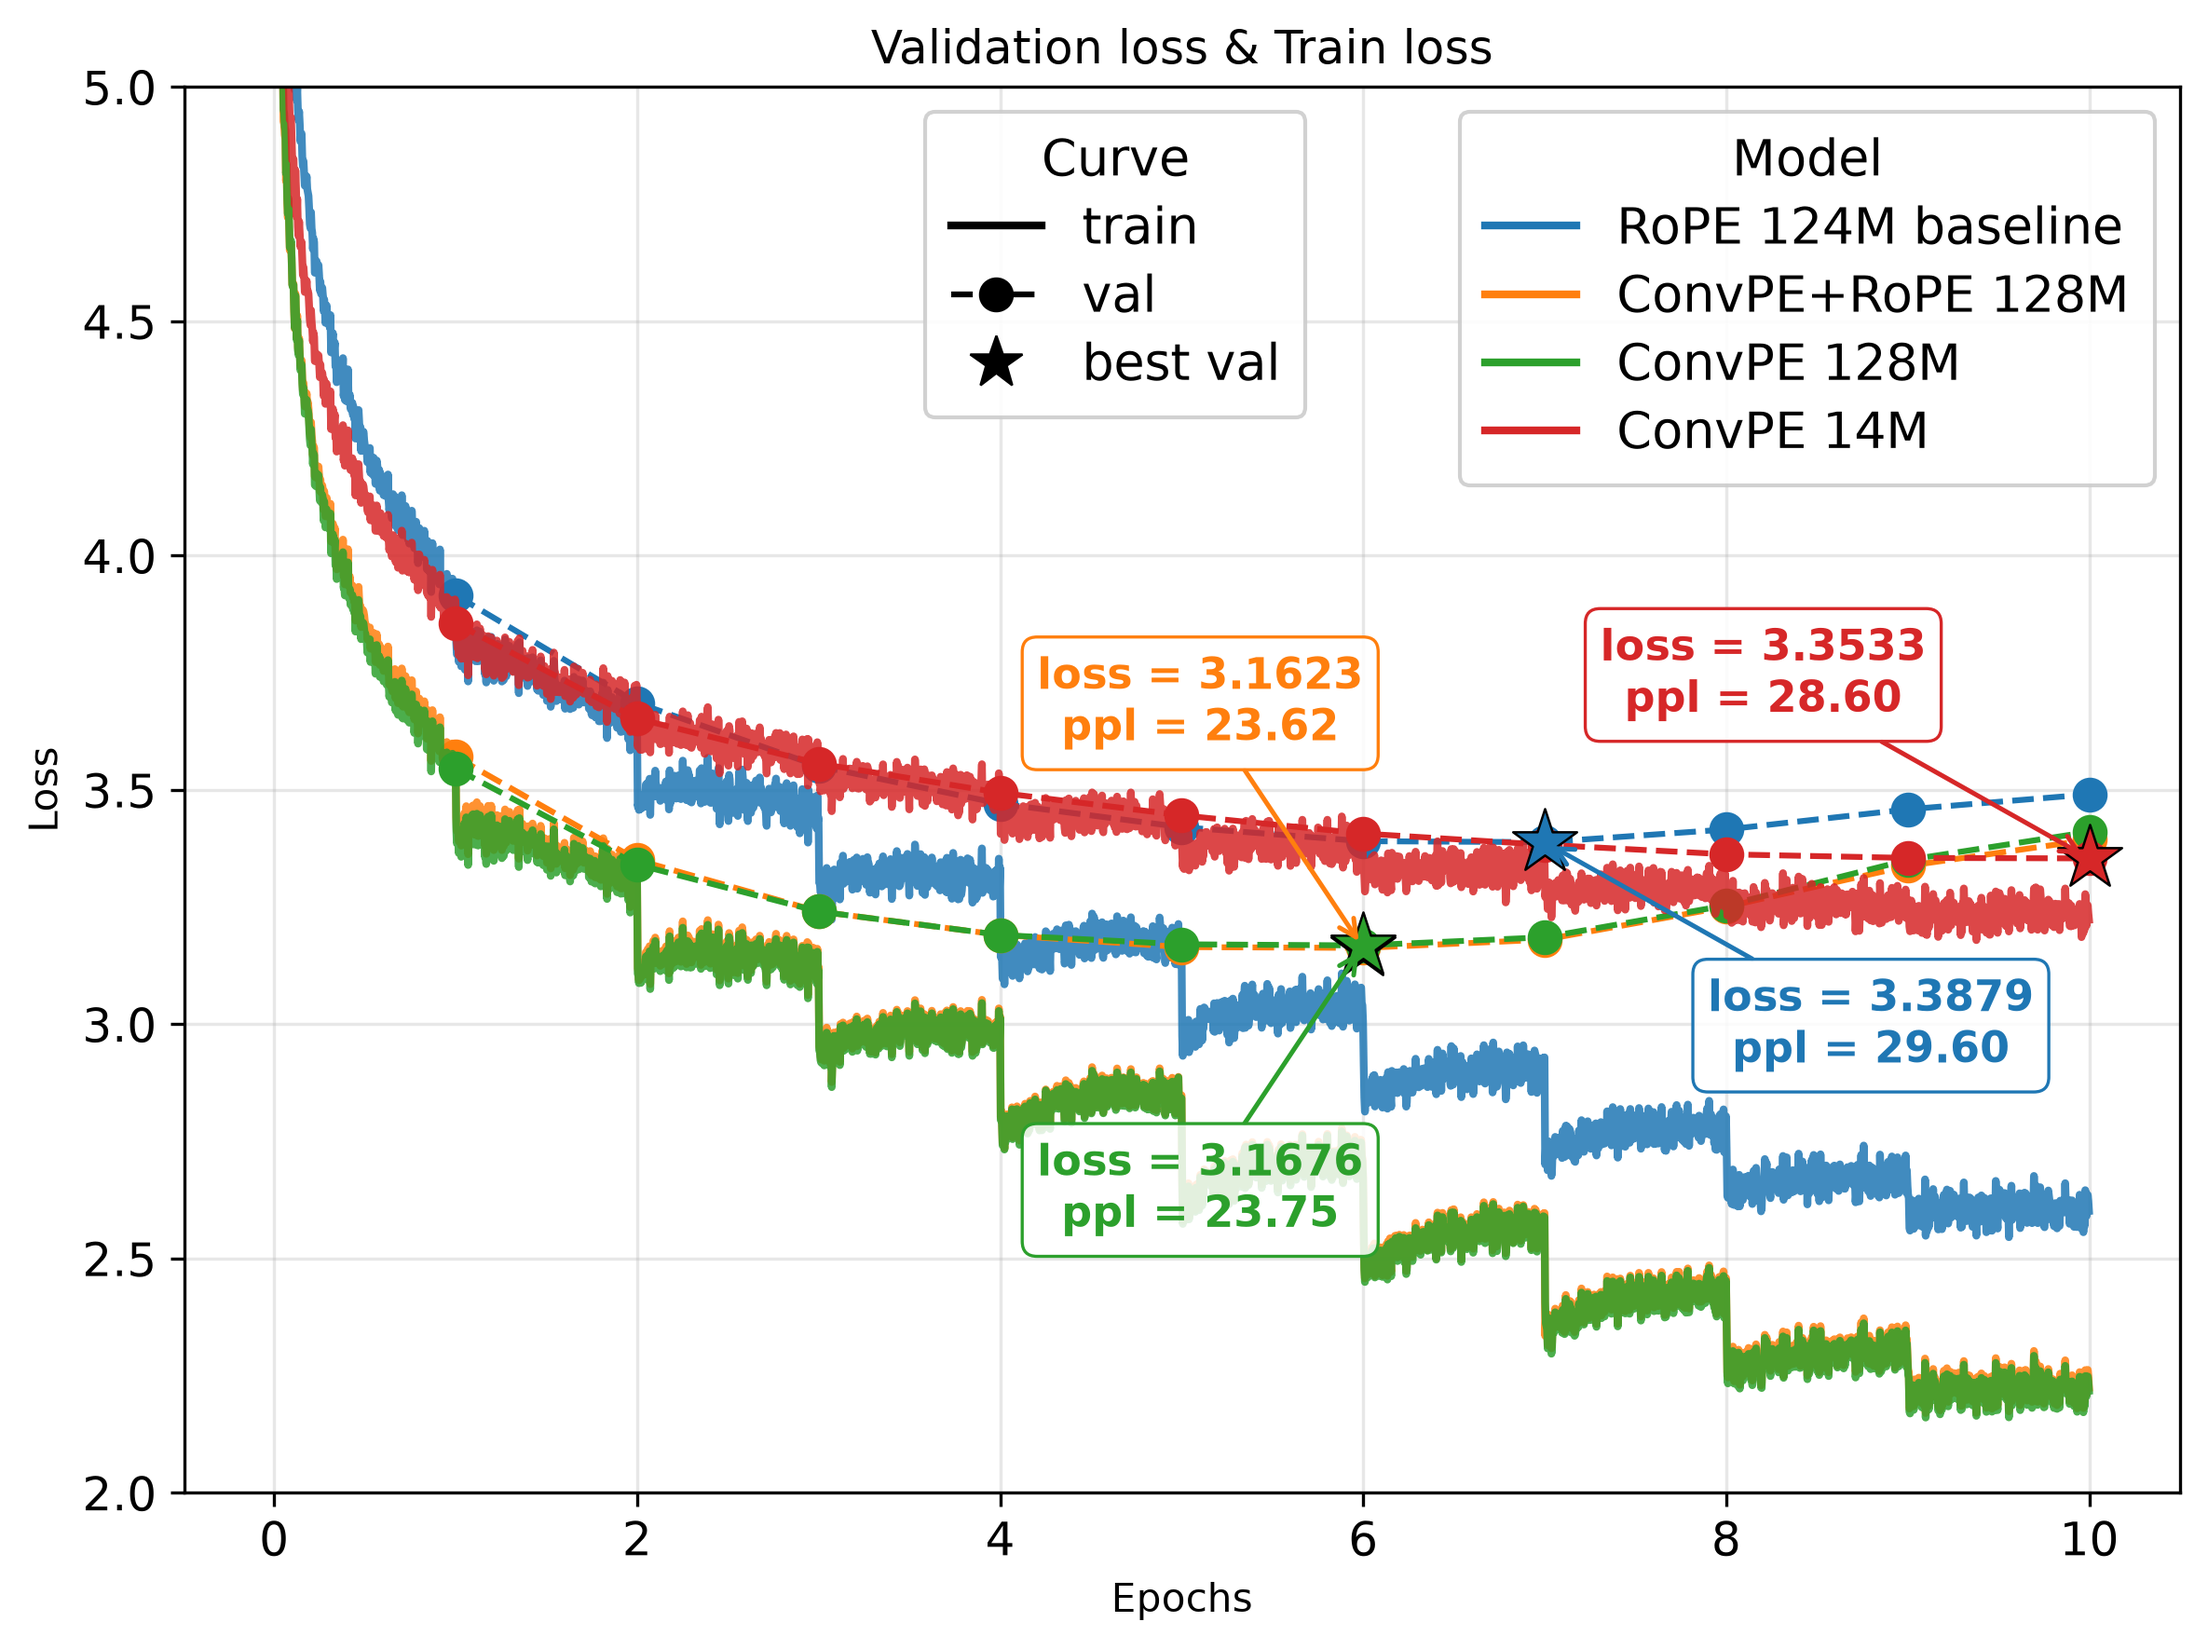
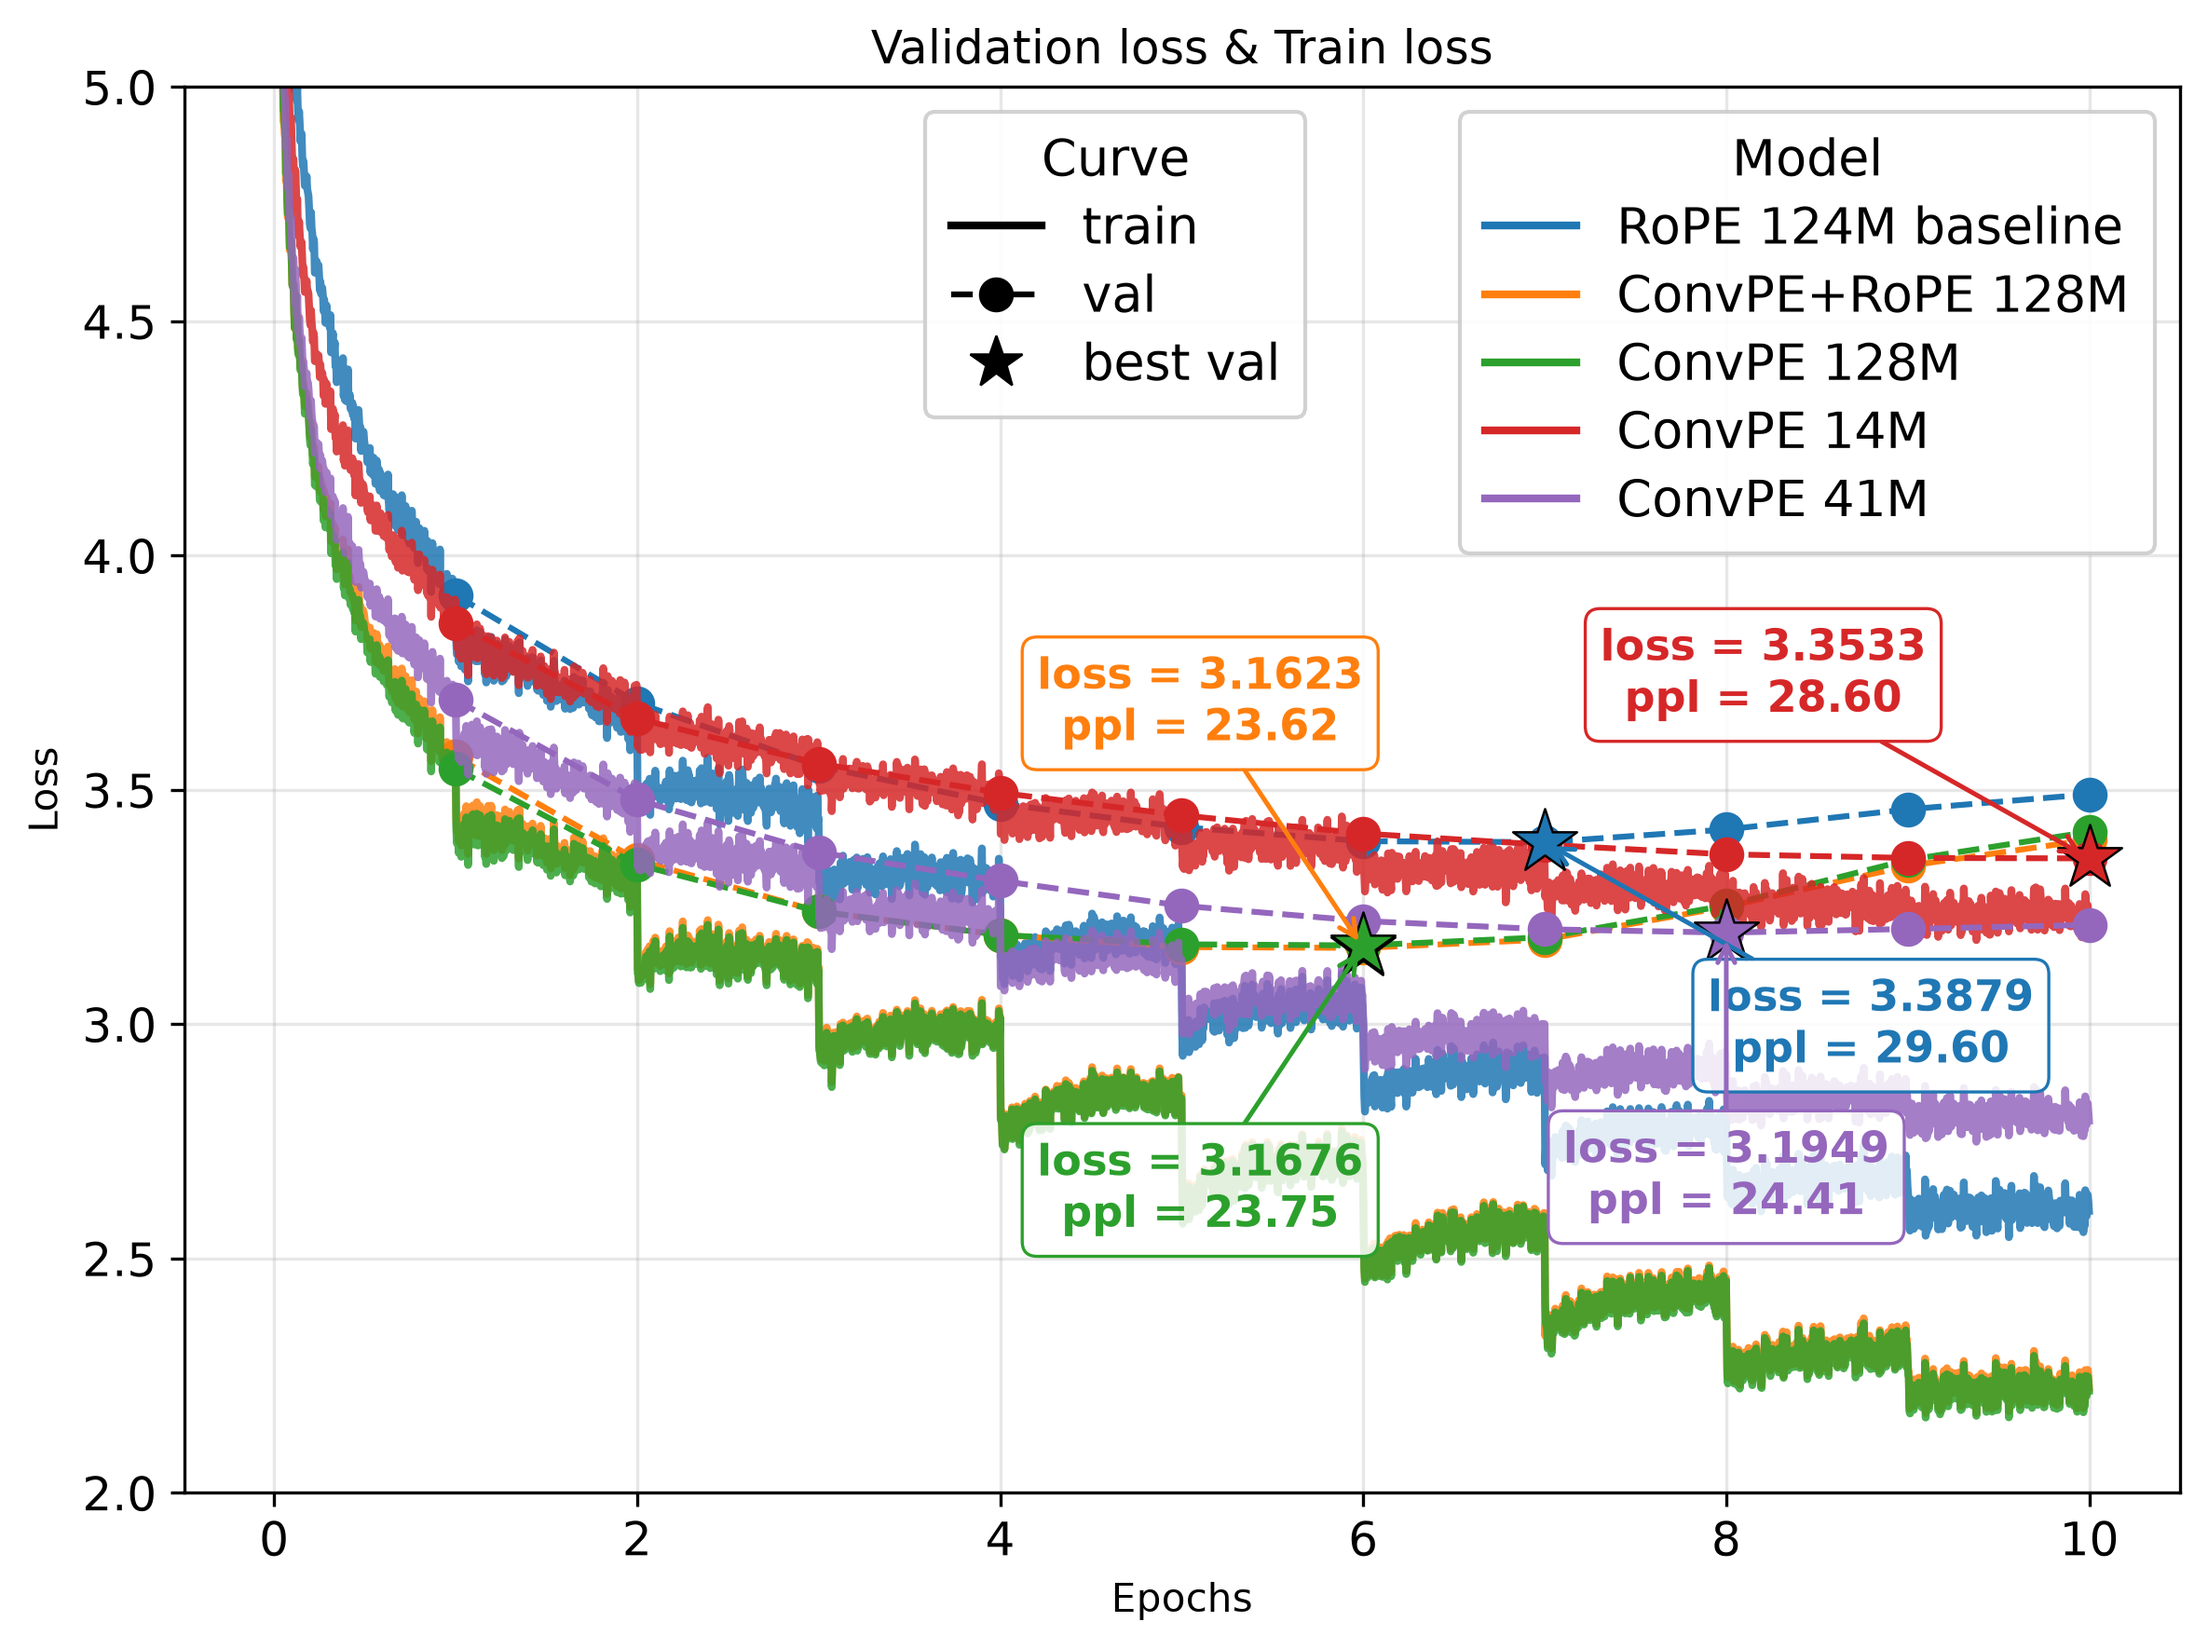
update main figure

diff --git a/readme.md b/readme.md
@@ -1,5 +1,5 @@
 # ConvPE
-ConvPE improves Transformer with 3x parameter efficiency by Convolutional Position Embedding.
+ConvPE substantially improves Transformers parameter efficiency and training efficiency by Convolutional Position Embedding.
 ![](/paper/FIGURES/attn_score_bias.png)
 ## Training curve on WikiText-103 for 10 epochs
 
